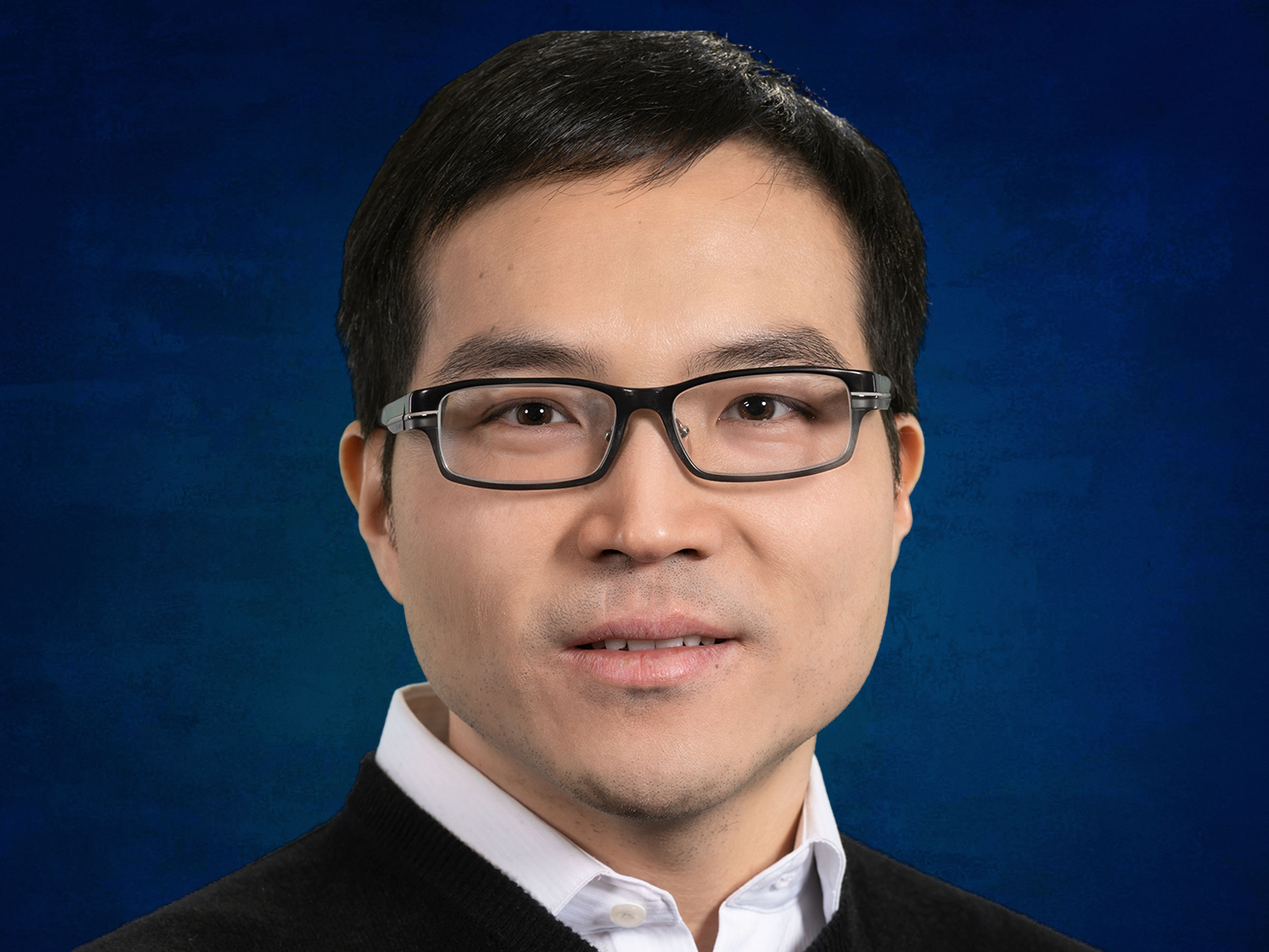
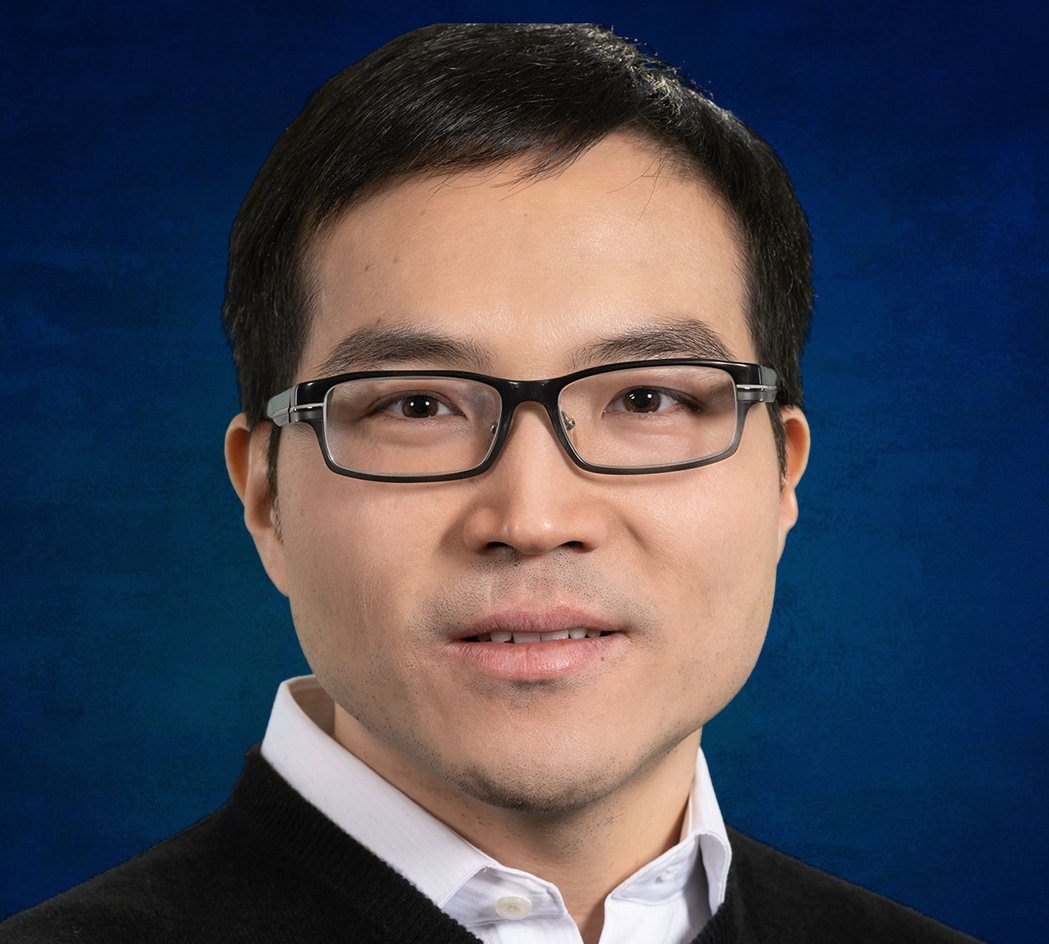
revise size of the photo

diff --git a/index.html b/index.html
@@ -5,7 +5,7 @@
     <table>
       <tbody><tr valign="bottom">
 	<td>
-	  <img src="./index_files/min_bonan.jpg" alt="My Photo" with="180px" height="191px">
+	  <img src="./index_files/min_bonan.jpg" alt="My Photo" with="180px" height="162px">
 	</td>
 	<td>
 	  &nbsp;&nbsp;&nbsp;&nbsp;
